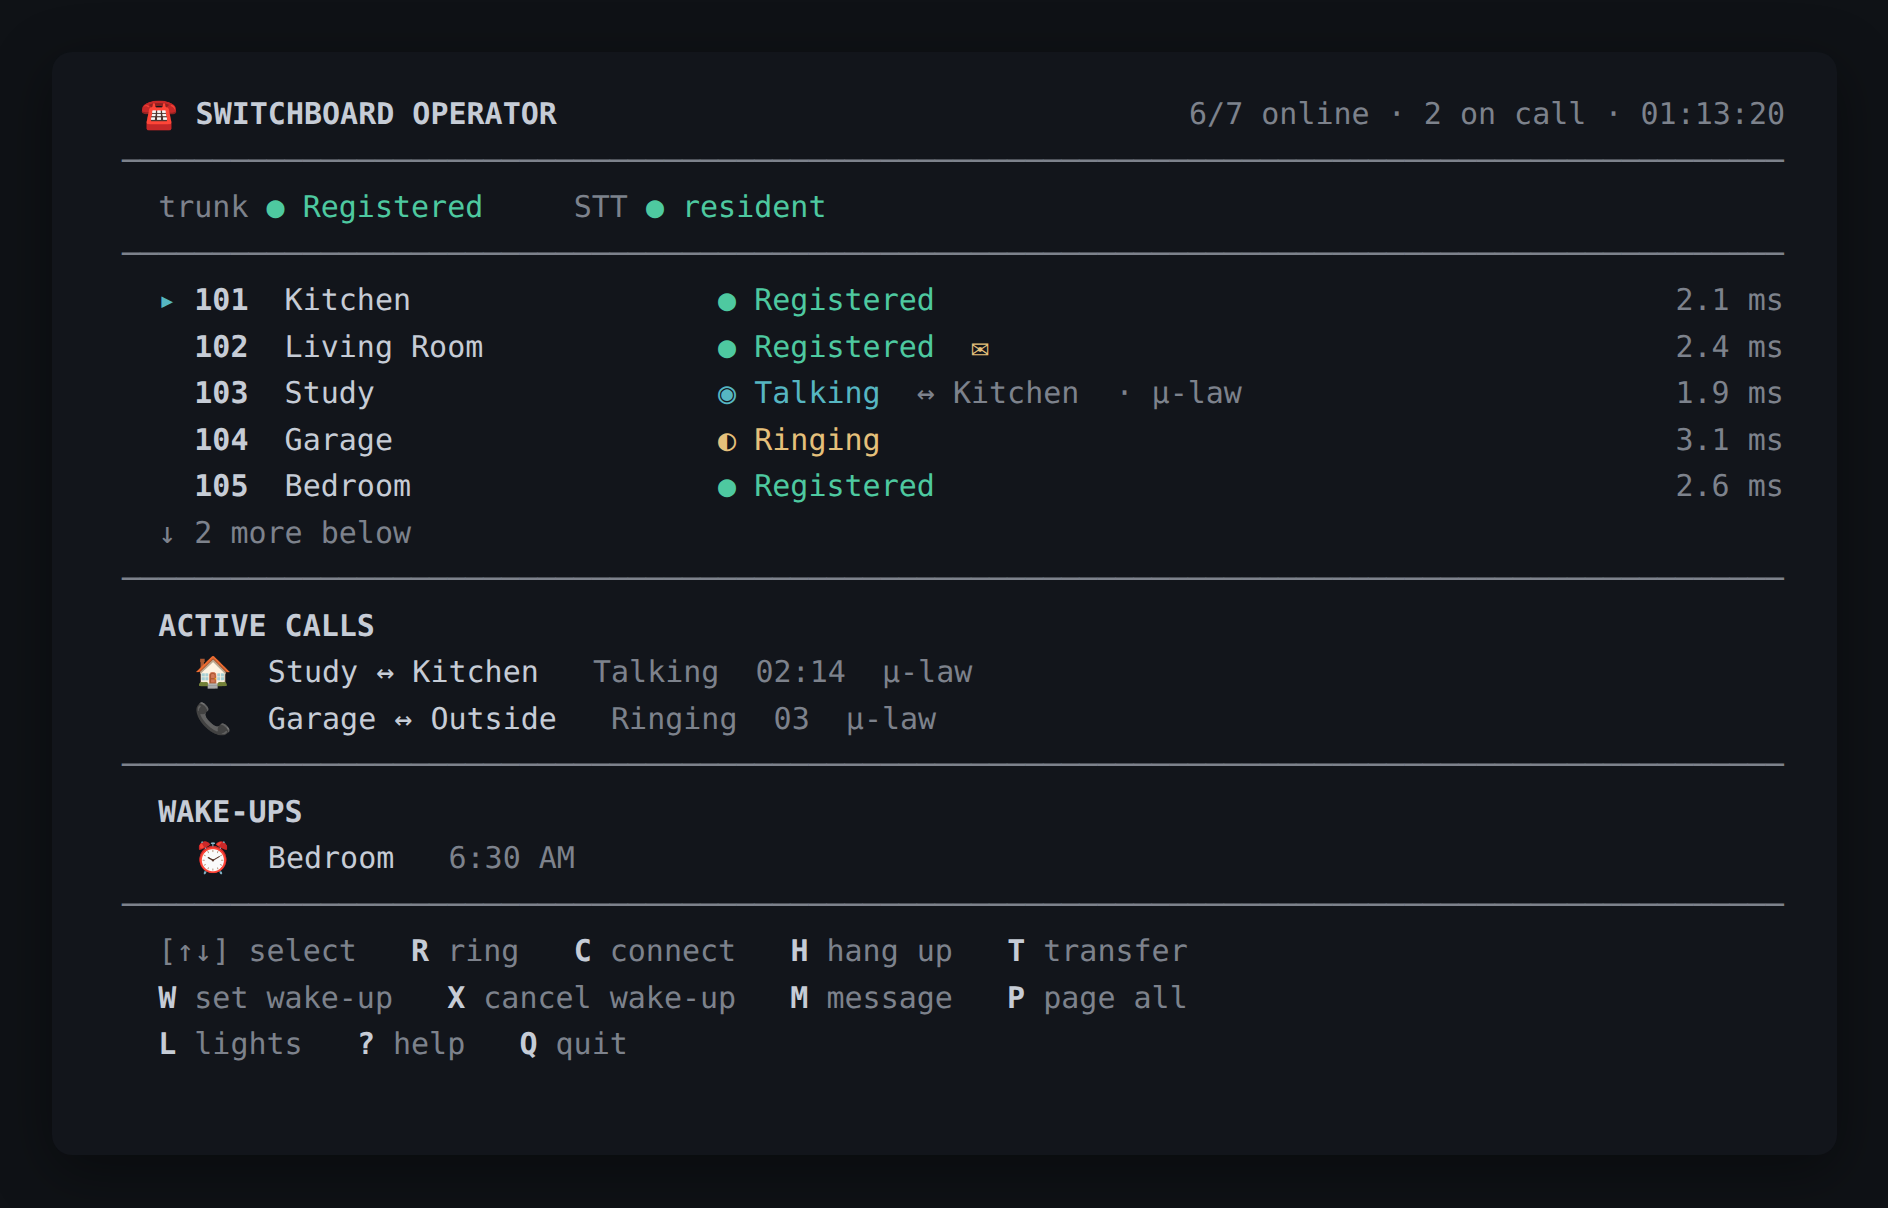
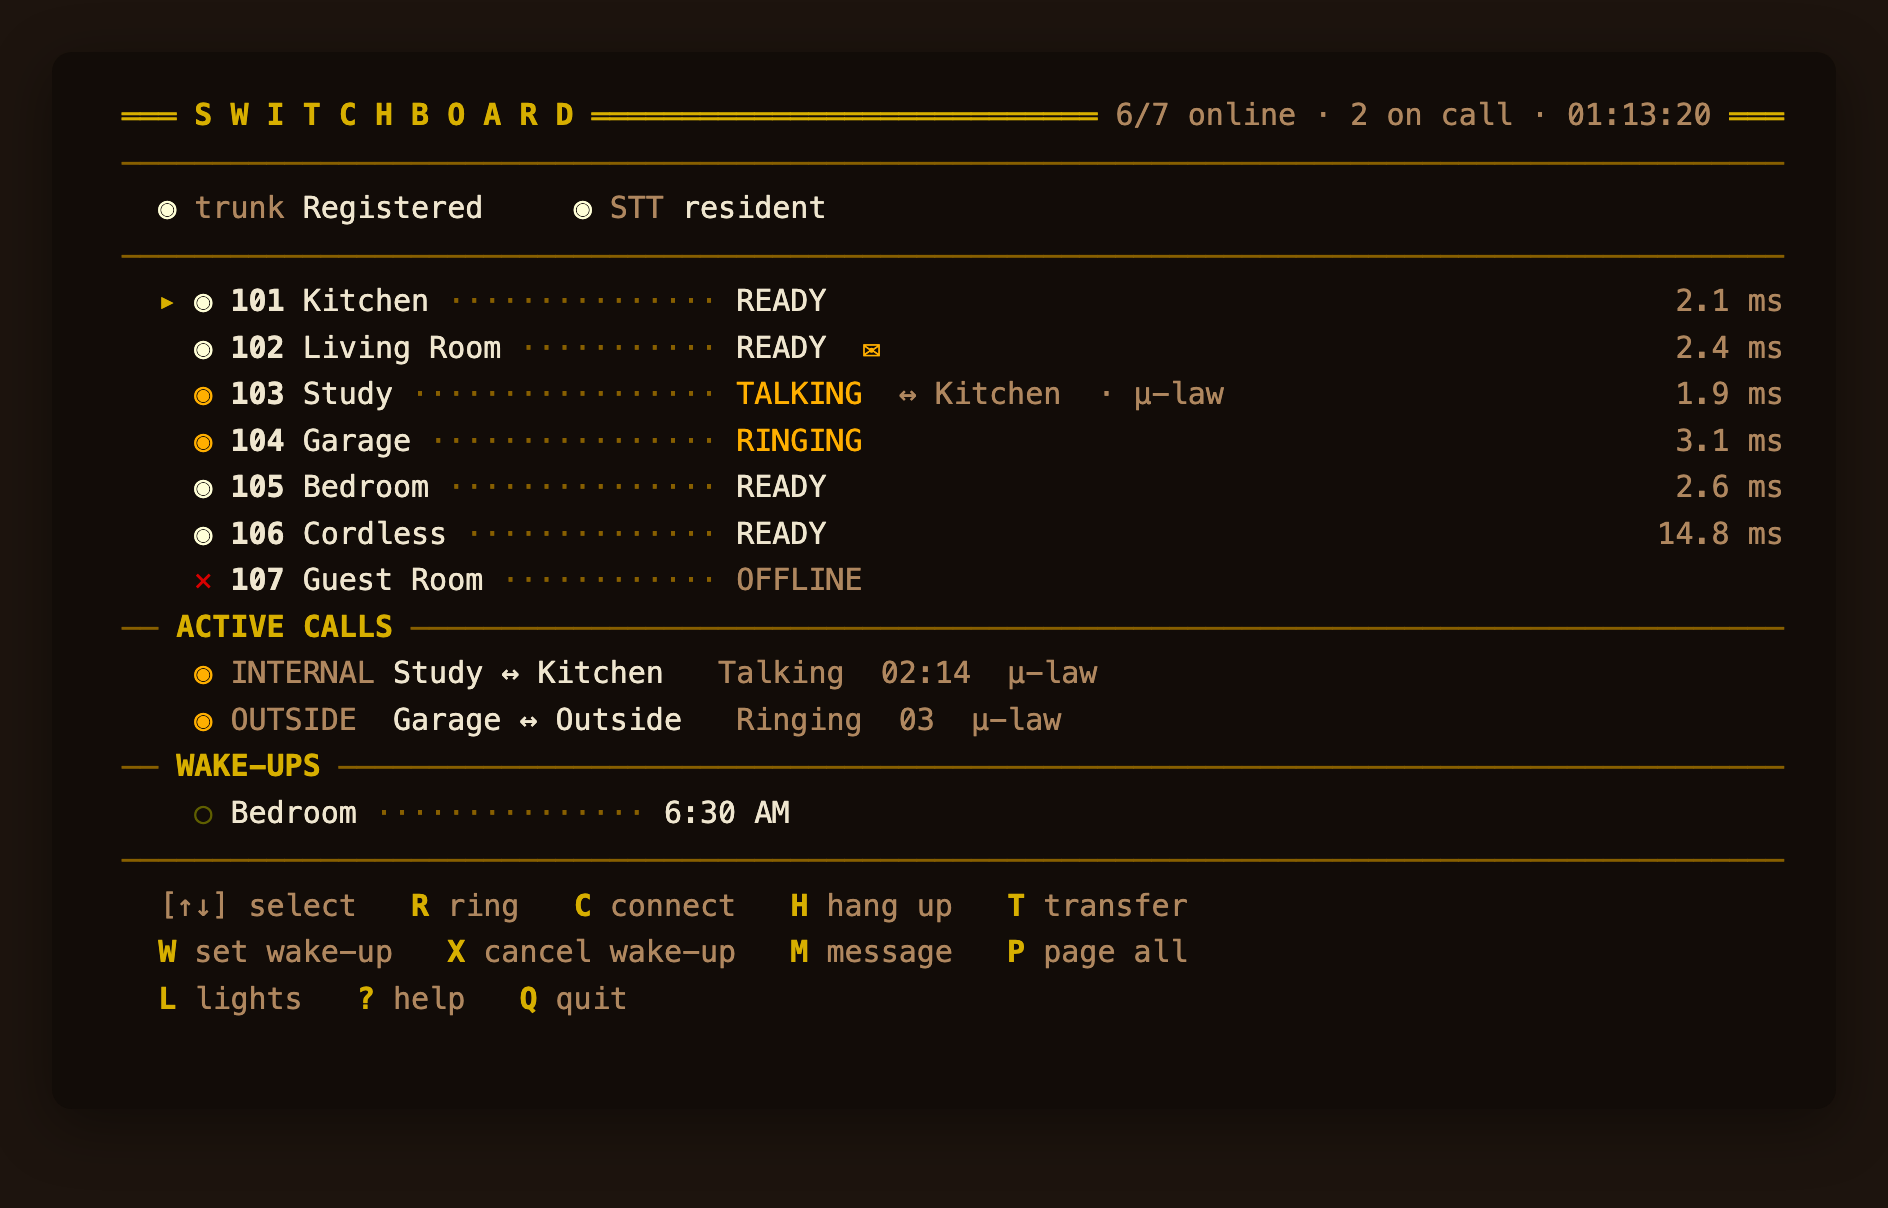
Release v0.113.0: the cord-board redesign of the dashboard, console and browser terminal

Changed region(s): [[0.0625, 0.0613, 0.9375, 0.8882], [0.875, 0.245, 0.9375, 0.4594], [0.5938, 0.3063, 0.6562, 0.3369]]

diff --git a/switchboard/CHANGELOG.md b/switchboard/CHANGELOG.md
@@ -1,7 +1,32 @@
 # Changelog
 
-Recent releases. Releases up to 0.107.0 are in the
+Recent releases. Releases up to 0.108.0 are in the
 [changelog archive](https://github.com/tesseractAZ/Switchboard/blob/main/switchboard/CHANGELOG-ARCHIVE.md).
+
+## 0.113.0
+
+**A new look for the dashboard, the telnet console and the browser terminal: the
+operator's position of a 1940s cord switchboard.** Nothing behaves differently.
+
+- **Dashboard.** A walnut board with an engraved brass nameplate. Each line is a
+  jack position: a lamp cap above a brass jack ring, beside a cream designation
+  strip with the typed number, room name and state. Lamps are unlit for unknown,
+  white for registered, amber for in use, flickering amber for ringing and red
+  for offline, and every lamp also states its condition in words. On first paint
+  the lamps warm up in turn; with reduced motion they appear lit. Buttons are
+  typed words instead of emoji. The page keeps one theme whatever Home
+  Assistant's light or dark setting is.
+- **Telnet console.** A brass nameplate rule, lamp glyphs on each position
+  (`◉` lit, `○` unlit, `✕` fault) with dotted leaders, amber for calls and
+  ringing, in 256-colour ANSI. Every key binding and view is unchanged.
+- **Browser terminal.** The terminal takes the same palette and typeface, with
+  the page chrome as the brass nameplate.
+- **Fonts are part of the add-on.** Federo (the nameplates) and Cutive Mono (the
+  typed text), both under the SIL Open Font License, are served by the add-on
+  itself: nothing is fetched from the internet, so the interface looks the same
+  with the WAN down and makes no request that would reveal the household's
+  address. Both web servers answer only the two file names, behind their
+  existing guards.
 
 ## 0.112.0
 
@@ -354,70 +379,3 @@ add-on runs.
   - PERFORMANCE.md's test count is 979, not 960.
   - Asterisk's `Unable to install capabilities` start-up warning was confirmed
     gone after the 0.108.0 deploy.
-
-## 0.108.0
-
-**The AppArmor profile is narrowed.** It granted every capability, and every file,
-signal and network access. It now removes what no process in the add-on uses:
-- **Capabilities are an explicit list.** chown, dac_override, fowner, fsetid,
-  kill, setgid, setuid and net_bind_service are allowed. Everything else is
-  refused, including net_raw, which with host networking would allow sniffing
-  on the LAN.
-- **Shipped code is write-locked** for every process, root included: `/usr`,
-  `/bin`, `/sbin`, `/lib`, `/init`, and Asterisk's AGI, sound and
-  music-on-hold trees. A lock refuses writes, hardlinks, chmod and chown.
-- **Explicit refusals:** reading `/etc/shadow`, writing kernel tunables,
-  reading firmware and LSM state, mount, and tracing another process.
-
-`file,`, `signal,` and `network,` stay broad, so no execute is ever refused,
-and no read except of the secret and kernel paths above and of `/root` and
-`/home`. s6-overlay re-reads `/init` when the container stops, and a per-path
-list that misses one read crash-loops the container. Every new deny is audited
-except the `/root` and `/home` ones, which are quiet: interactive `docker exec`
-shells try to keep their history there.
-
-The profile was compiled fresh with the host's own parser (AppArmor 3.1.7) and
-loaded under a test name. An isolated copy of the add-on then ran under it, with
-its own network and volumes, through:
-- boot;
-- one call to each feature code;
-- the backup hooks;
-- service restarts;
-- a full stop and start.
-
-The only denials recorded were the three deliberate write probes. On HAOS those
-records go to the host's audit journal (`journalctl _TRANSPORT=audit`), not to
-`dmesg`; the profile header and SECURITY.md now say so. A new CI job compiles
-the profile on every change, and tests pin its shape.
-
-**Asterisk starts as the `asterisk` user, with no permitted capabilities.** It
-used to start as root and switch user itself (`-U`/`-G`). That kept root's
-permitted capability set, because Asterisk asks to keep capabilities so that it
-can hold on to net_admin, which the container never grants. A compromised
-Asterisk — the process that talks to the SIP trunk — could then have raised
-dac_override, setuid or chown again. It now starts through `s6-setuidgid`, as
-whisper-server already did. Verified in the boot test: its permitted and effective
-capability sets are both empty.
-
-**Python bytecode is compiled into the image.** Nothing wrote `__pycache__` at
-build time, so root services wrote it under `/usr` at runtime. The AGIs, running
-as the asterisk user under root-owned code, could not write it, so they
-recompiled every module on every call. `PYTHONDONTWRITEBYTECODE` is now set and
-the bytecode is precompiled.
-
-**The Asterisk start script no longer chowns its sounds and AGIs.** Only
-`/var/lib/asterisk` itself (for astdb) and `keys/` are given back to the
-asterisk user. A recursive chown walked the whole sound tree on every start, and
-under the write-lock each file would be refused and logged.
-
-**Corrections:**
-- `/run` is not a tmpfs in this container. Several comments and SECURITY.md
-  called it RAM-backed. The AMI secret and the announcement clips there sit in
-  the container's own writable layer on disk, which the Supervisor discards
-  when it recreates the container at every add-on start. They never go into
-  `/data`, `/share`, `/config` or a backup.
-- The gateway's command shell takes bare numbers: `get 4200`, not `get P4200`,
-  which prints `(null)` whatever the value. The manual (§7.3) said otherwise.
-- `.dockerignore` sat at the repository root, outside the `./switchboard` build
-  context, so no build read it. It now lives in `switchboard/` and also
-  excludes `.pytest_cache`.

diff --git a/switchboard/CHANGELOG-ARCHIVE.md b/switchboard/CHANGELOG-ARCHIVE.md
@@ -3,6 +3,72 @@
 Earlier Switchboard releases, newest first. The most recent ones are in
 [CHANGELOG.md](CHANGELOG.md).
 
+## 0.108.0
+
+**The AppArmor profile is narrowed.** It granted every capability, and every file,
+signal and network access. It now removes what no process in the add-on uses:
+- **Capabilities are an explicit list.** chown, dac_override, fowner, fsetid,
+  kill, setgid, setuid and net_bind_service are allowed. Everything else is
+  refused, including net_raw, which with host networking would allow sniffing
+  on the LAN.
+- **Shipped code is write-locked** for every process, root included: `/usr`,
+  `/bin`, `/sbin`, `/lib`, `/init`, and Asterisk's AGI, sound and
+  music-on-hold trees. A lock refuses writes, hardlinks, chmod and chown.
+- **Explicit refusals:** reading `/etc/shadow`, writing kernel tunables,
+  reading firmware and LSM state, mount, and tracing another process.
+
+`file,`, `signal,` and `network,` stay broad, so no execute is ever refused,
+and no read except of the secret and kernel paths above and of `/root` and
+`/home`. s6-overlay re-reads `/init` when the container stops, and a per-path
+list that misses one read crash-loops the container. Every new deny is audited
+except the `/root` and `/home` ones, which are quiet: interactive `docker exec`
+shells try to keep their history there.
+
+The profile was compiled fresh with the host's own parser (AppArmor 3.1.7) and
+loaded under a test name. An isolated copy of the add-on then ran under it, with
+its own network and volumes, through:
+- boot;
+- one call to each feature code;
+- the backup hooks;
+- service restarts;
+- a full stop and start.
+
+The only denials recorded were the three deliberate write probes. On HAOS those
+records go to the host's audit journal (`journalctl _TRANSPORT=audit`), not to
+`dmesg`; the profile header and SECURITY.md now say so. A new CI job compiles
+the profile on every change, and tests pin its shape.
+
+**Asterisk starts as the `asterisk` user, with no permitted capabilities.** It
+used to start as root and switch user itself (`-U`/`-G`). That kept root's
+permitted capability set, because Asterisk asks to keep capabilities so that it
+can hold on to net_admin, which the container never grants. A compromised
+Asterisk — the process that talks to the SIP trunk — could then have raised
+dac_override, setuid or chown again. It now starts through `s6-setuidgid`, as
+whisper-server already did. Verified in the boot test: its permitted and effective
+capability sets are both empty.
+
+**Python bytecode is compiled into the image.** Nothing wrote `__pycache__` at
+build time, so root services wrote it under `/usr` at runtime. The AGIs, running
+as the asterisk user under root-owned code, could not write it, so they
+recompiled every module on every call. `PYTHONDONTWRITEBYTECODE` is now set and
+the bytecode is precompiled.
+
+**The Asterisk start script no longer chowns its sounds and AGIs.** Only
+`/var/lib/asterisk` itself (for astdb) and `keys/` are given back to the
+asterisk user. A recursive chown walked the whole sound tree on every start, and
+under the write-lock each file would be refused and logged.
+
+**Corrections:**
+- `/run` is not a tmpfs in this container. Several comments and SECURITY.md
+  called it RAM-backed. The AMI secret and the announcement clips there sit in
+  the container's own writable layer on disk, which the Supervisor discards
+  when it recreates the container at every add-on start. They never go into
+  `/data`, `/share`, `/config` or a backup.
+- The gateway's command shell takes bare numbers: `get 4200`, not `get P4200`,
+  which prints `(null)` whatever the value. The manual (§7.3) said otherwise.
+- `.dockerignore` sat at the repository root, outside the `./switchboard` build
+  context, so no build read it. It now lives in `switchboard/` and also
+  excludes `.pytest_cache`.
 ## 0.107.0
 
 **`log_level` now does what its documentation says.** The manual, SECURITY.md

diff --git a/switchboard/DOCS.md b/switchboard/DOCS.md
@@ -1369,7 +1369,7 @@ signals the Ingress dashboard surfaces. Three front-ends onto the same board:
 ![The full-screen operator console](docs/img/console.png)
 
 - **In the Home Assistant sidebar** *(recommended, added in 0.93.0)* — open the
-  **Switchboard** panel and press **🖥 Console**, or go straight to `/console/`
+  **Switchboard** panel and press **Console**, or go straight to `/console/`
   under the panel's URL. This is the same board, served from the Ingress port, so
   **Home Assistant's own login is the only login** — there is no separate
   password to configure, forget, or leave switched off. The port does listen on

diff --git a/switchboard/PERFORMANCE.md b/switchboard/PERFORMANCE.md
@@ -374,7 +374,7 @@ detector that cannot fire and a healthy system produce identical silence.
 
 | | | Source |
 | --- | --- | --- |
-| Tests | **1128** at 0.112.0, ~20 s | `pytest`, below |
+| Tests | **1148** at 0.113.0, ~20 s | `pytest`, below |
 | Mutants applied, 0.77.0–0.80.0 | 64 | release commits |
 | Killed | 64 | release commits |
 | Survived their first run | 10 | release commits |
